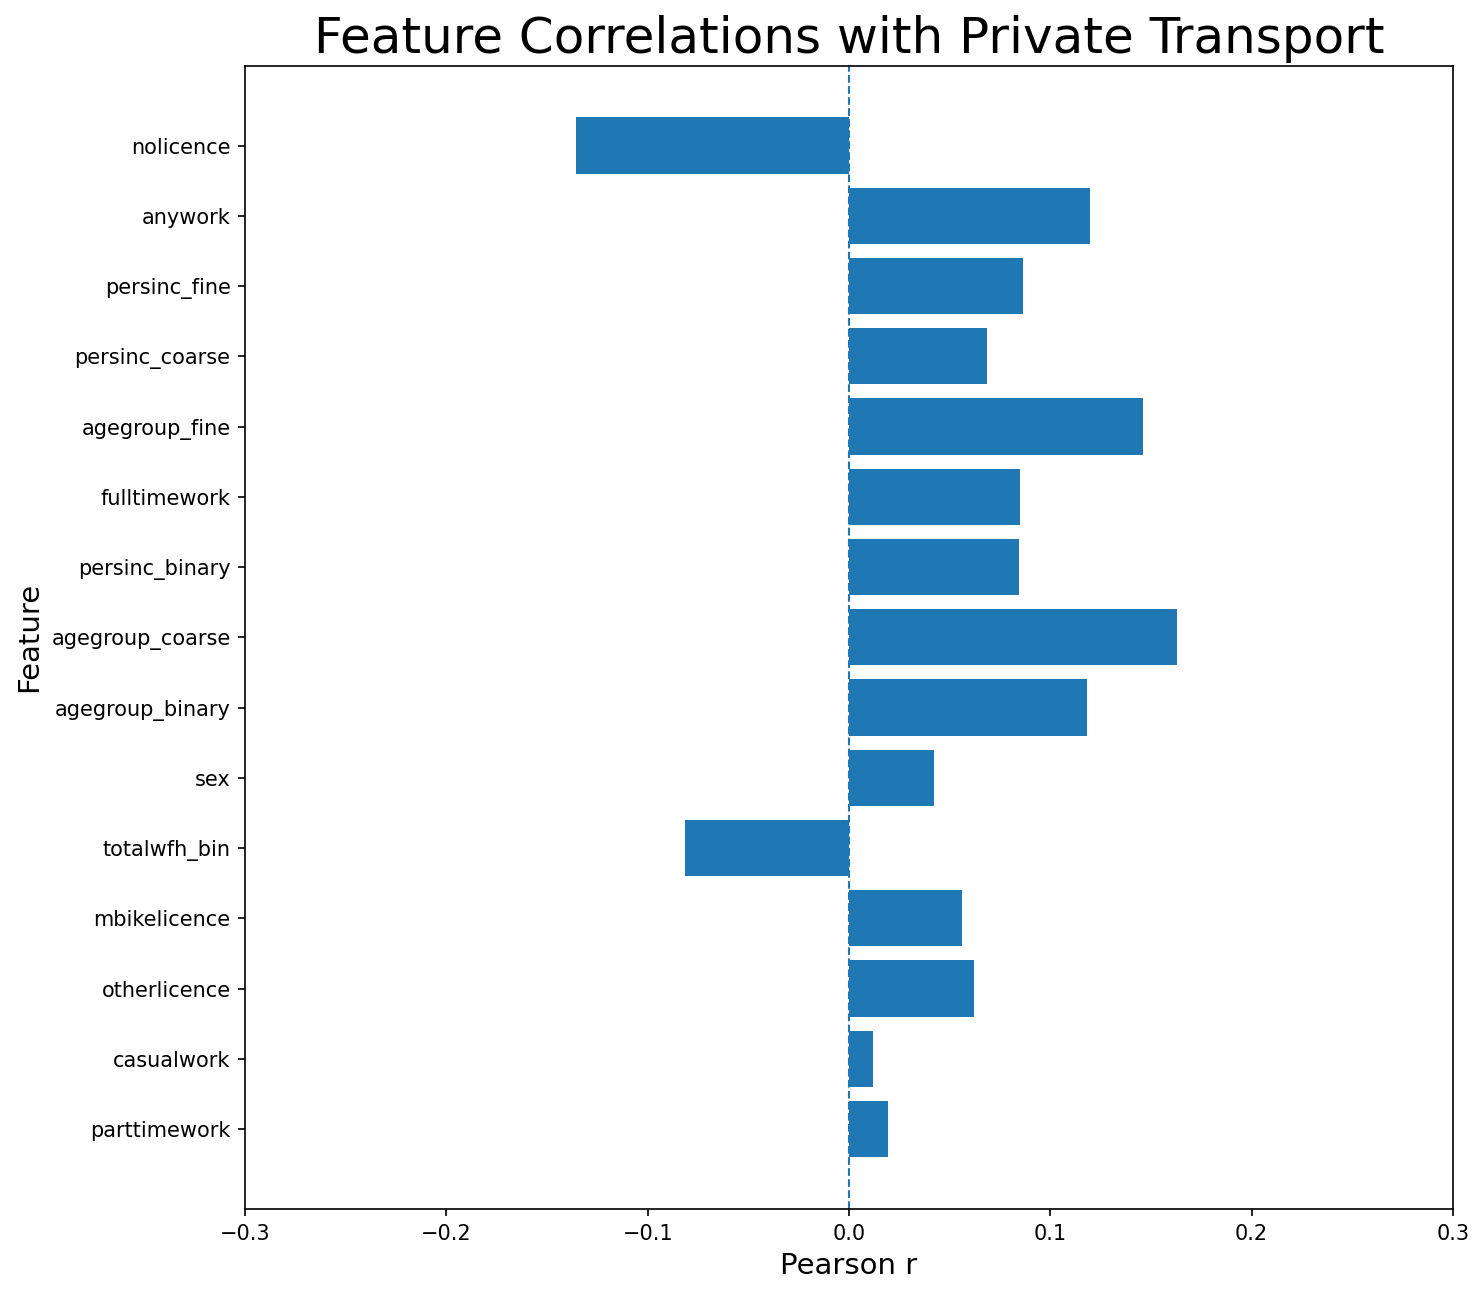
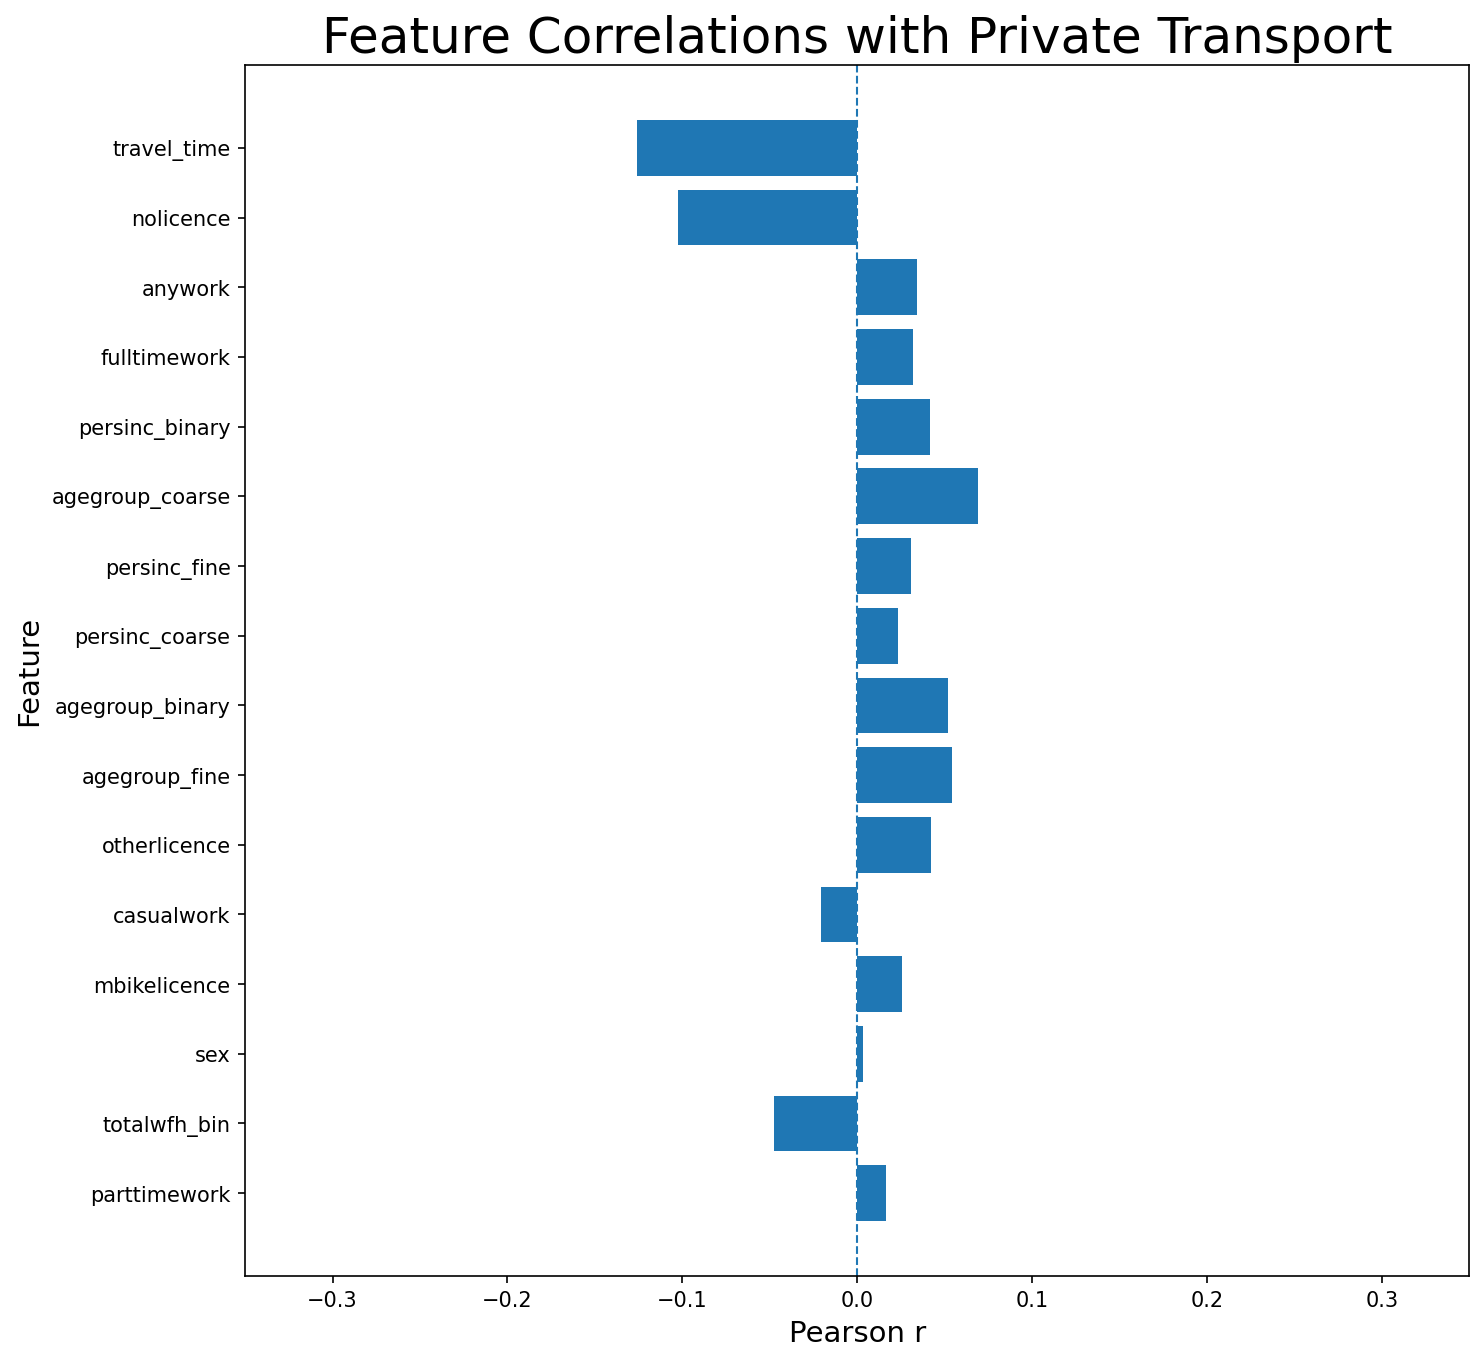
Fixed mode type plots

diff --git a/correlation.py b/correlation.py
@@ -35,17 +35,16 @@ def feature_order(df, X):
     targets["trip_length"] = pd.to_numeric(df["overall_trip_length"], errors="coerce")
 
     # Mode-group targets
-    for name, modes in GROUPS.items():
-        y = df["most_used_mode"].isin(modes).astype(float)
-        if y.nunique() == 2:  # ensure both classes exist
+    for name in ("Public", "Private", "Active"):
+        y = (df["most_used_mode"] == name).astype(float)
+        if y.nunique() == 2:
             targets[f"{name}_transport"] = y
 
-    # Compute correlations matrix
     R_all = pd.DataFrame(index=X.columns, dtype=float)
     for key, y in targets.items():
         ok = np.isfinite(y)
         R_all[key] = X.loc[ok].apply(lambda col: col.corr(y.loc[ok], method="pearson"))
-
+        
     R_all = R_all.fillna(0.0)
     order = R_all.abs().max(axis=1).sort_values(ascending=False).index
     return order, R_all
@@ -76,7 +75,7 @@ def plot_bar(series, xlabel, title, out_path):
     ax.barh(series.index, series.values)
     ax.axvline(0, linestyle="--", linewidth=1)
     # Manually set x axis scale for easier graph comparisons
-    ax.set_xlim(-0.3, 0.3)
+    ax.set_xlim(-0.35, 0.35)
     ax.set_xlabel(xlabel, fontsize=LABEL_SIZE)
     ax.set_ylabel("Feature", fontsize=LABEL_SIZE)
     ax.set_title(title, fontsize=TITLE_SIZE)
@@ -93,23 +92,24 @@ def plot_bar(series, xlabel, title, out_path):
 def travel_mode_corr(df, X, order, out_dir=OUT_DIR):
     os.makedirs(out_dir, exist_ok=True)
 
-    groups = {
-        name: modes
-        for name, modes in GROUPS.items()
-        if df["most_used_mode"].isin(modes).astype(int).nunique() == 2
-    }
+    for name in ("Public", "Private", "Active"):
+        y = (df["most_used_mode"] == name).astype(float)
 
-    for name, modes in groups.items():
-        y = df["most_used_mode"].isin(modes).astype(float)
+        if y.nunique() != 2:
+            # write a diagnostic PNG so filenames always refresh
+            s = pd.Series(0.0, index=order, dtype=float)
+            plot_bar(s, "Pearson r",
+                     f"Feature Correlations with {name} Transport (no valid class split)",
+                     os.path.join(out_dir, f"{name.lower()}_transport.png"))
+            continue
+
         ok = np.isfinite(y)
         s = X.loc[ok].apply(lambda col: col.corr(y.loc[ok], method="pearson")).fillna(0.0)
-        s = s.reindex(order)  # enforce global order
-        plot_bar(
-            s,
-            xlabel="Pearson r",
-            title=f"Feature Correlations with {name} Transport",
-            out_path=os.path.join(out_dir, f"{name.lower()}_transport.png"),
-        )
+        s = s.reindex(order)
+
+        plot_bar(s, "Pearson r",
+                 f"Feature Correlations with {name} Transport",
+                 os.path.join(out_dir, f"{name.lower()}_transport.png"))
 
 # Construct dataframe and produce plots
 def corr_analysis():
